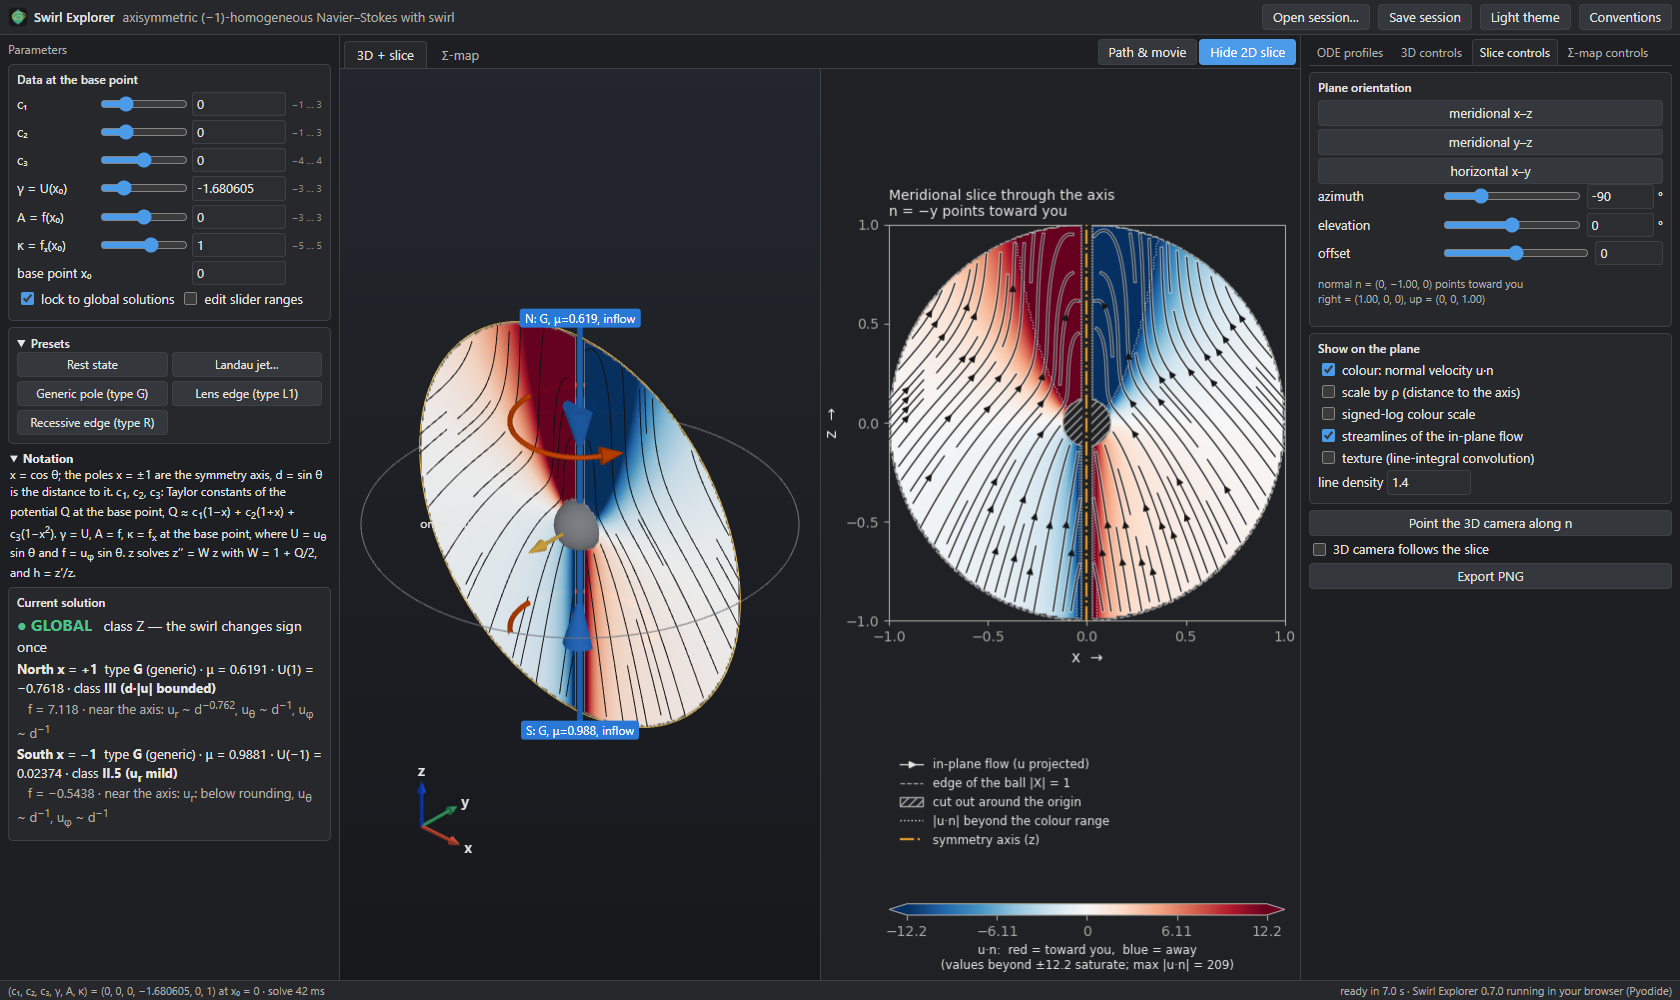
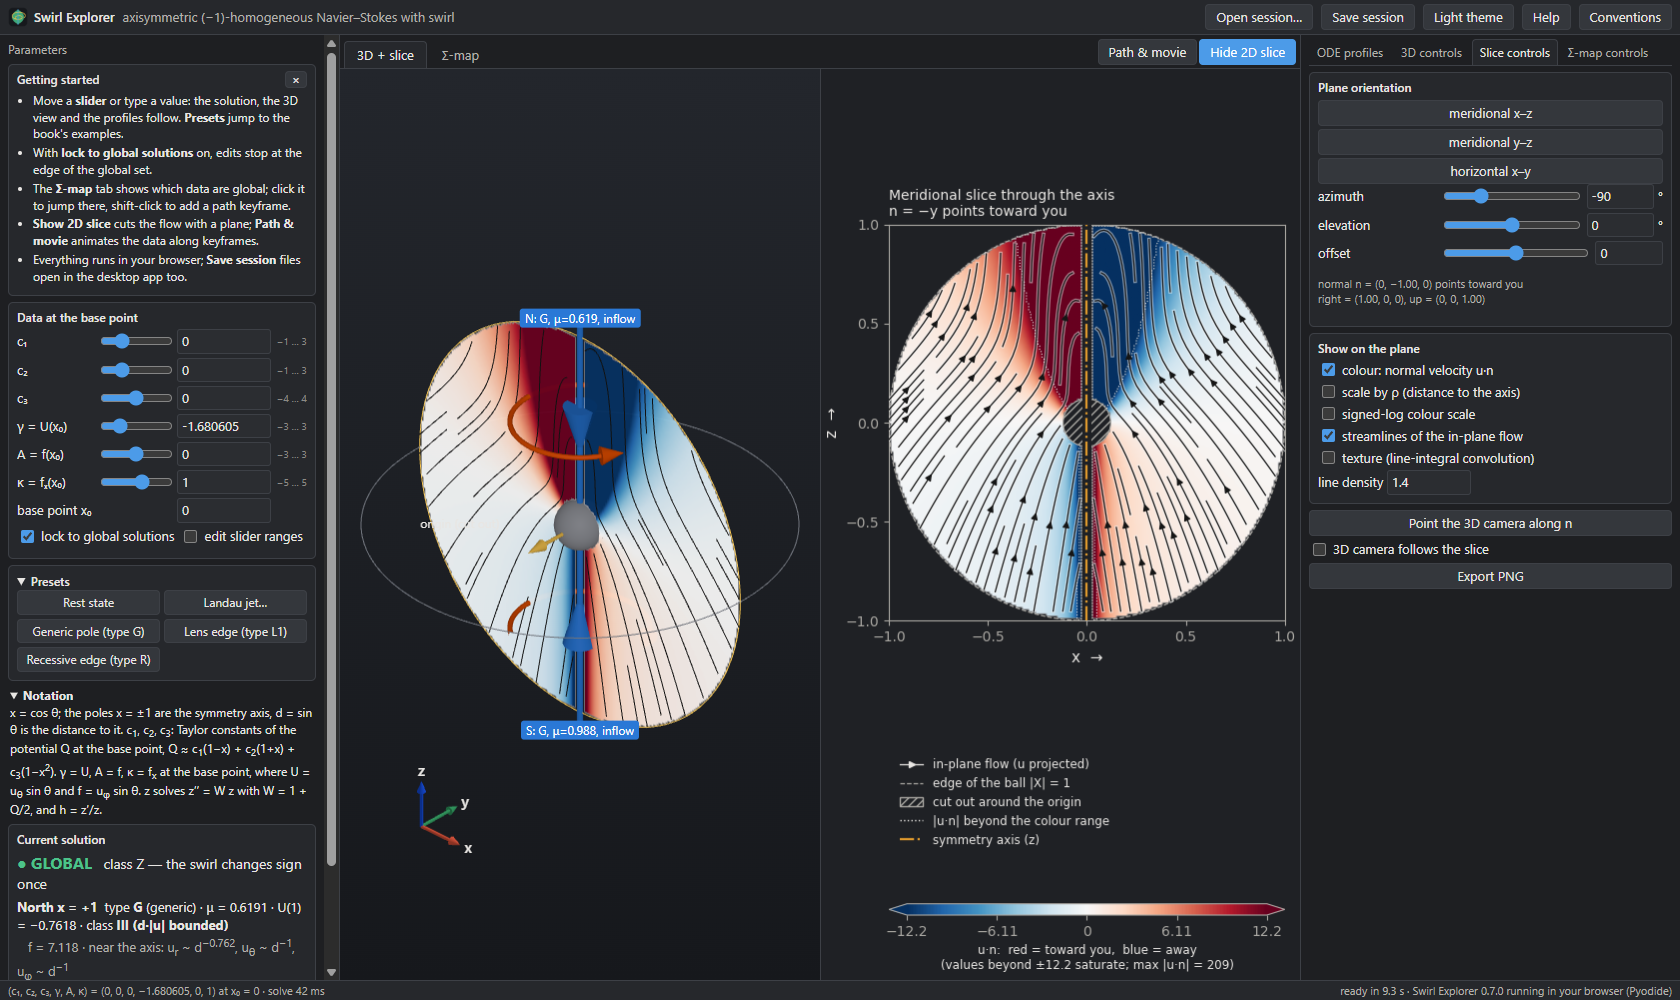
Web version, visual review round 5: getting-started card, Help, resizable path panel, hover explanations
- Shared status text: hover explanations for '(uncertain)' and the
  Bradshaw-Palmer class names (desktop too).
- Measured: the browser's default 3D framing equals the desktop's VTK camera
  (parallel scale 1.266 in the desktop's 785 x 907 pane).

Changed region(s): [[0.0, 0.062, 0.2167, 0.961], [0.7119, 0.0, 0.9286, 0.031]]

diff --git a/site/index.html b/site/index.html
@@ -23,12 +23,23 @@
     <button id="btn-open" title="open a session file (.json), also from the desktop app">Open session…</button>
     <button id="btn-save" title="download everything as a session file (.json); the desktop app opens it too">Save session</button>
     <button id="btn-theme" title="switch between the dark and the light theme">Light theme</button>
+    <button id="btn-intro" title="show the getting-started card">Help</button>
     <button id="btn-help" title="conventions and how this page works">Conventions</button>
     <input id="file-open" type="file" accept=".json,application/json" hidden>
   </header>
 
   <aside id="left">
     <h2 class="dock-title">Parameters</h2>
+    <section id="intro" class="group intro" hidden>
+      <h3>Getting started <button id="intro-close" class="x" title="hide this card (Help brings it back)">×</button></h3>
+      <ul>
+        <li>Move a <b>slider</b> or type a value: the solution, the 3D view and the profiles follow. <b>Presets</b> jump to the book's examples.</li>
+        <li>With <b>lock to global solutions</b> on, edits stop at the edge of the global set.</li>
+        <li>The <b>Σ-map</b> tab shows which data are global; click it to jump there, shift-click to add a path keyframe.</li>
+        <li><b>Show 2D slice</b> cuts the flow with a plane; <b>Path &amp; movie</b> animates the data along keyframes.</li>
+        <li>Everything runs in your browser; <b>Save session</b> files open in the desktop app too.</li>
+      </ul>
+    </section>
     <section class="group">
       <h3>Data at the base point</h3>
       <div id="param-grid" class="param-grid"></div>
@@ -220,6 +231,7 @@
   </aside>
 
   <section id="bottom" hidden>
+    <div id="bottom-grip" title="drag to resize the path panel"></div>
     <h2 class="dock-title">Path</h2>
     <div class="path-body">
       <div class="path-left">

diff --git a/site/app.js b/site/app.js
@@ -720,6 +720,20 @@ async function main() {
   $("show-ranges").addEventListener("change", renderRanges);
   $("btn-theme").addEventListener("click", () => setTheme(S.theme === "dark" ? "light" : "dark"));
   $("btn-help").addEventListener("click", () => $("help").showModal());
+  // the getting-started card: shown until dismissed (remembered in this browser)
+  let introOff = false;
+  try { introOff = localStorage.getItem("swirl.intro") === "off"; } catch (e) { /* storage blocked */ }
+  $("intro").hidden = introOff;
+  $("intro-close").addEventListener("click", () => { $("intro").hidden = true; try { localStorage.setItem("swirl.intro", "off"); } catch (e) {} });
+  $("btn-intro").addEventListener("click", () => { $("intro").hidden = false; $("left").scrollTop = 0; });
+  // the path panel's height can be dragged, like the desktop's dock splitter
+  $("bottom-grip").addEventListener("mousedown", (ev) => {
+    ev.preventDefault();
+    const y0 = ev.clientY, h0 = $("bottom").offsetHeight;
+    const move = (e) => { $("bottom").style.height = `${Math.max(150, Math.min(window.innerHeight * 0.7, h0 + y0 - e.clientY))}px`; };
+    const up = () => { window.removeEventListener("mousemove", move); window.removeEventListener("mouseup", up); view.resize(); refreshViews(); };
+    window.addEventListener("mousemove", move); window.addEventListener("mouseup", up);
+  });
   $("btn-save").addEventListener("click", async () => {
     const text = await py.call("session_json", collectSession());
     download(URL.createObjectURL(new Blob([text], { type: "application/json" })), "session.swirl.json");

diff --git a/site/path.js b/site/path.js
@@ -131,7 +131,7 @@ export class PathDock {
     const tb = this.table.querySelector("tbody");
     tb.innerHTML = ks.map((k, r) => `<tr data-r="${r}" class="${r === this.sel ? "sel" : ""}"><td class="const">${r + 1}</td><td contenteditable data-c="t">${+k.t.toPrecision(10)}</td>` +
       NAMES.map((n) => `<td contenteditable data-c="${n}" class="${vary.includes(n) ? "" : "const"}" ${vary.includes(n) ? 'style="font-weight:600"' : ""}>${+Number(k.params[n]).toPrecision(10)}</td>`).join("") +
-      `<td class="const" title="${EXTRA.some((e) => k.extras && e in k.extras) ? "the view this keyframe restores" : "no view stored: tick camera / slice plane / seeds above before adding keyframes"}">${EXTRA.filter((e) => k.extras && e in k.extras).join(", ") || "—"}</td></tr>`).join("");
+      `<td class="const" title="${EXTRA.some((e) => k.extras && e in k.extras) ? "the view this keyframe restores" : "no view stored: tick camera / slice plane / seeds above before adding keyframes"}">${EXTRA.filter((e) => k.extras && e in k.extras).join(", ") || "parameters only"}</td></tr>`).join("");
     tb.querySelectorAll("tr").forEach((tr) => tr.addEventListener("click", () => {
       this.sel = +tr.dataset.r; this.refreshSel();
       if (ks.length >= 2) { const [a, b] = this.duration(); this.goto(Math.round(((ks[this.sel].t - a) / ((b - a) || 1)) * (this.n() - 1))); }

diff --git a/site/style.css b/site/style.css
@@ -54,7 +54,13 @@ details.group > summary h3 { display: inline; }
 #left { grid-area: left; overflow-y: auto; padding: 4px 8px; border-right: 1px solid var(--border); }
 #center { grid-area: center; display: flex; flex-direction: column; min-width: 0; min-height: 0; }
 #right { grid-area: right; overflow-y: auto; padding: 4px 8px; border-left: 1px solid var(--border); }
-#bottom { grid-area: bottom; border-top: 1px solid var(--border); padding: 2px 8px 6px; height: min(250px, 31vh); }
+#bottom { grid-area: bottom; border-top: 1px solid var(--border); padding: 2px 8px 6px; height: min(250px, 31vh); position: relative; }
+#bottom-grip { position: absolute; left: 0; right: 0; top: -4px; height: 8px; cursor: ns-resize; z-index: 2; }
+#bottom-grip:hover { background: var(--accent); opacity: 0.4; }
+.intro ul { margin: 2px 0 0; padding-left: 16px; font-size: 12px; }
+.intro li { margin: 2px 0; }
+.intro h3 { display: flex; justify-content: space-between; align-items: center; }
+button.x { padding: 0 6px; line-height: 1.2; }
 #pa-events { overflow-y: auto; min-height: 0; flex: 1; }
 .path-right { overflow: hidden; }
 .sep { color: var(--faint); }

diff --git a/swirl_explorer/viz/status_text.py b/swirl_explorer/viz/status_text.py
@@ -45,11 +45,13 @@ def pole_line(name: str, d: PoleDiagnostics, sign: int) -> tuple[str, str]:
                 "the solution would blow up beyond the computed window (book's terminal test)")
     U = d.U_lim if sign > 0 else -d.U_lim
     pole = "U(1)" if sign > 0 else "U(−1)"
-    unc = (f" <span style='color:{_col('bad')}'>(uncertain)</span>" if d.confidence < 0.9 else "")
+    unc = (f" <span style='color:{_col('bad')}' title='the pole type was classified with confidence "
+           f"{d.confidence:.2f} &lt; 0.9: the solution is close to a boundary between types'>(uncertain)</span>"
+           if d.confidence < 0.9 else "")
     tg = {"G": "generic", "R": "recessive", "L1": "log, bounded swirl", "L2": "log, unbounded swirl",
           "R0": "no-swirl recessive"}.get(d.stratum, "")
     line = (f"<b>{name}</b> &nbsp;type <b>{d.stratum}</b> ({tg}){unc} · μ = {_fmt(d.mu)} · "
-            f"{pole} = {_fmt(U)} · class <b>{_bp_short(d.bp)}</b>")
+            f"{pole} = {_fmt(U)} · class <b title='Bradshaw–Palmer {BP_GLOSS.get(d.bp, d.bp)}'>{_bp_short(d.bp)}</b>")
     ex = d.exponents or {}
     plain, html = [], []
     for k, lab, hl in (("u_r", "u_r", "u<sub>r</sub>"), ("u_theta", "u_θ", "u<sub>θ</sub>"),
